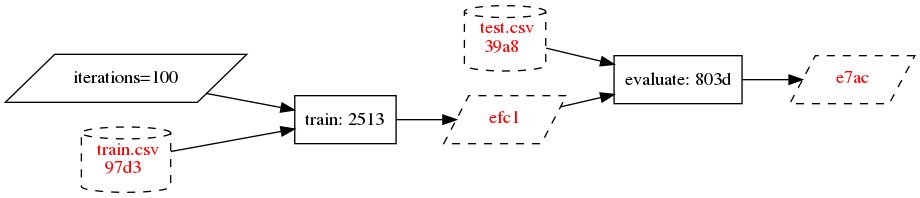
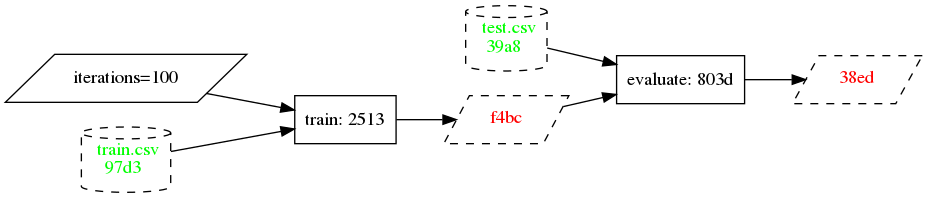
Refactor io nodes

diff --git a/merkl/future.py b/merkl/future.py
@@ -26,7 +26,7 @@ def map_future_to_value(val):
 class Future:
     __slots__ = [
         'fn', 'fn_code_hash', 'num_outs', 'output_index', 'deps', '_caches', 'serializer', 'bound_args',
-        'outs_shared_cache', '_hash', '_code_args_hash', 'meta'
+        'outs_shared_cache', '_hash', '_code_args_hash', 'meta', 'is_io'
     ]
 
     def __init__(
@@ -40,7 +40,8 @@ class Future:
         serializer=None,
         bound_args=None,
         outs_shared_cache=None,
-        hash=None
+        hash=None,
+        meta=None,
     ):
         self.fn = fn
         self.fn_code_hash = fn_code_hash
@@ -56,12 +57,12 @@ class Future:
 
         # Cache for the all outputs with the respect to a function and its args
         self.outs_shared_cache = outs_shared_cache or {}
-
-        self.meta = None
+        self.meta = meta
+        self.is_io = self.fn_code_hash is None
 
     @property
     def caches(self):
-        if merkl.cache.cache_override != 0:
+        if not self.is_io and merkl.cache.cache_override != 0:
             return [merkl.cache.cache_override]
         return self._caches
 
@@ -118,7 +119,10 @@ class Future:
     def get_cache(self):
         for cache in self.caches:
             if cache.has(self.hash):
-                return self.serializer.loads(cache.get(self.hash))
+                val = cache.get(self.hash)
+                if self.is_io:
+                    return val
+                return self.serializer.loads(val)
 
     def get(self):
         if self.code_args_hash and self.code_args_hash in self.outs_shared_cache:
@@ -139,15 +143,16 @@ class Future:
         if self.output_index is not None:
             specific_out = outputs[self.output_index]
 
-        if len(self.caches) > 0:
-            specific_out_bytes = self.serializer.dumps(specific_out)
-            m = hashlib.sha256()
-            m.update(specific_out_bytes)
-            content_hash = m.hexdigest()
+        if not self.is_io:
+            if len(self.caches) > 0:
+                specific_out_bytes = self.serializer.dumps(specific_out)
+                m = hashlib.sha256()
+                m.update(specific_out_bytes)
+                content_hash = m.hexdigest()
 
-        for cache in self.caches:
-            if not cache.has(self.hash):
-                cache.add(content_hash, self.hash, specific_out_bytes)
+            for cache in self.caches:
+                if not cache.has(self.hash):
+                    cache.add(content_hash, self.hash, specific_out_bytes)
 
         return specific_out
 

diff --git a/merkl/dot.py b/merkl/dot.py
@@ -13,9 +13,8 @@ def print_dot_graph_nodes(futures, target_fn=None, printed=set()):
     for future in futures:
         node_id = future.hash[:6]
         node_label = future.hash[:4]
-        is_io = future.fn in [merkl.io._get_file_content, merkl.io._get_file_object]
         code_args_hash = future.code_args_hash[:6] if future.code_args_hash else None
-        if not is_io and code_args_hash not in printed:
+        if not future.is_io and code_args_hash not in printed:
             fn_name = f'{future.fn.__name__}: {future.fn_code_hash[:4]}'
             if future.fn_code_hash not in printed:
                 # Only print a function's deps once, in case of multiple invocations (list may be long)
@@ -55,10 +54,10 @@ def print_dot_graph_nodes(futures, target_fn=None, printed=set()):
 
         if node_id not in printed:
             color = 'green' if future.in_cache() else 'red'
-            if is_io:
+            if future.is_io:
                 # NOTE: in this case we store the file path in meta. We use the md5_hash input arg as the hash for
                 # display, i.e the hash of the file
-                node_label = f'{future.meta}<br/>{future.bound_args.args[0][:4]}'
+                node_label = f'{future.meta}<br/>{future.hash[:4]}'
                 shape = 'cylinder'
             else:
                 shape = 'parallelogram'
@@ -66,7 +65,7 @@ def print_dot_graph_nodes(futures, target_fn=None, printed=set()):
             label = f"< <font color='{color}'>{node_label}</font> >"
 
             print(f'\t"out_{node_id}" [shape={shape}, style=dashed, label={label}];')
-            if not is_io:
+            if not future.is_io:
                 print(f'\t"fn_{code_args_hash}" -> "out_{node_id}"')
             printed.add(node_id)
 

diff --git a/merkl/io.py b/merkl/io.py
@@ -1,6 +1,7 @@
 import os
 import pathlib
 import json
+from functools import partial
 from datetime import datetime
 from merkl.future import Future
 from merkl.exceptions import FileNotTrackedError, NonSerializableArgError, TrackedFileNotUpToDateError
@@ -69,19 +70,17 @@ def _get_file_content(md5_hash, flags):
 
 
 def mread(path, flags=''):
-    from merkl.task import task
+    from merkl.task import task  # FIX: circular imports
     md5_hash = get_and_validate_md5_hash(path)
-    future = task(_get_file_content)(md5_hash, flags)
-    future.meta = path
-    return future
+    f = partial(_get_file_content, md5_hash=md5_hash, flags=flags)
+    return Future(f, None, caches=[FileCache], hash=md5_hash, meta=path)
 
 
 def mopen(path, flags=''):
     from merkl.task import task
     md5_hash = get_and_validate_md5_hash(path)
-    future = task(_get_file_object)(md5_hash, flags)
-    future.meta = path
-    return future
+    f = partial(_get_file_object, md5_hash=md5_hash, flags=flags)
+    return Future(f, None, caches=[FileCache], hash=md5_hash, meta=path)
 
 
 def get_and_validate_md5_hash(path):

diff --git a/README.md b/README.md
@@ -93,7 +93,11 @@ Let's say we change the `2` to a `3` in `task2` and re-run the command. Now the 
 What would a slightly more realistic scenario look like? Here's a pipeline for a non-descript model training and
 evaluation:
 
-```
+```python
+from merkl import mread
+
+...
+
 def train_eval():
     train_data = mread('train.csv')
     test_data = mread('test.csv')
@@ -108,7 +112,8 @@ first add them to MerkL using the `track` command:
 `$ merkl track train.csv test.csv`
 
 This moves a copy to the `.merkl/cache` folder, creates a `{train,test}.csv.merkl` file containing the content hash, and
-adds the original file to `.gitignore` if present.
+adds the original file to `.gitignore` if present. In git, we'll track the `.merkl` file instead of the original, which
+we instead upload to remote storage like AWS S3.
 
 If we visualize this graph it looks like this:
 
